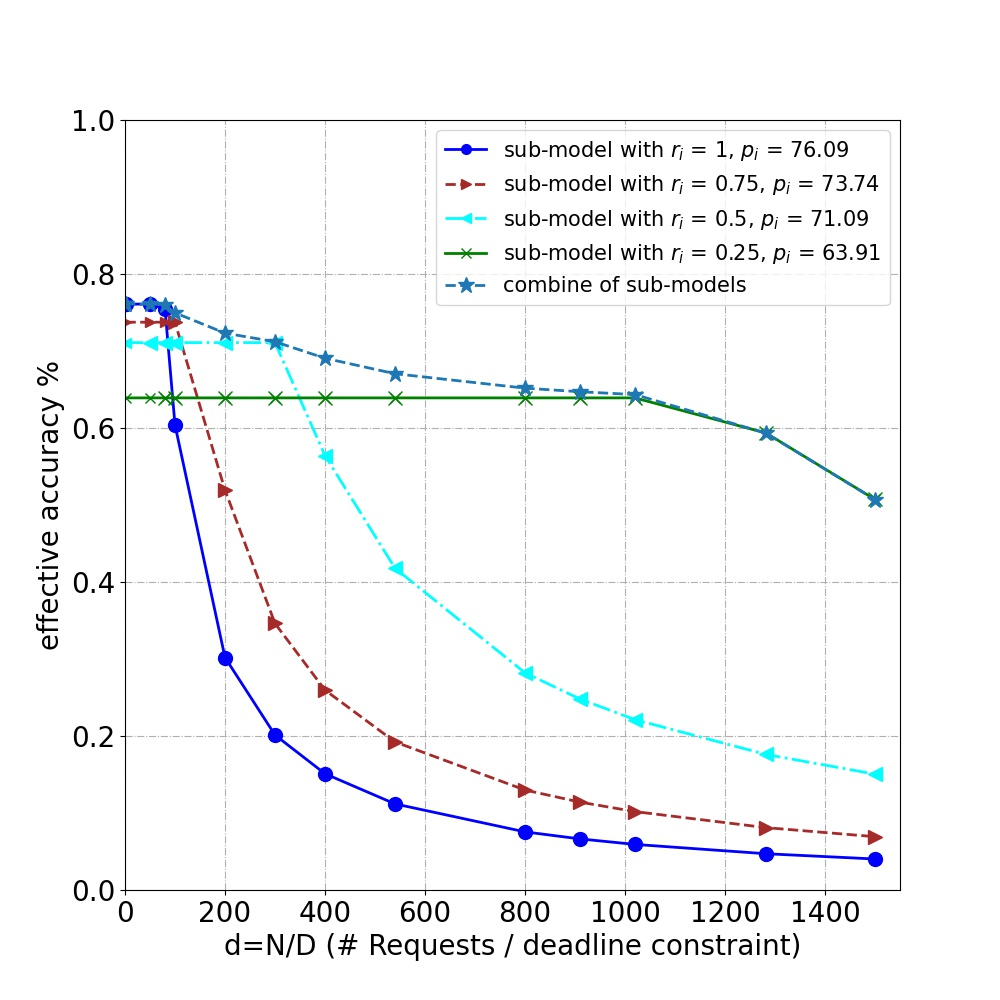
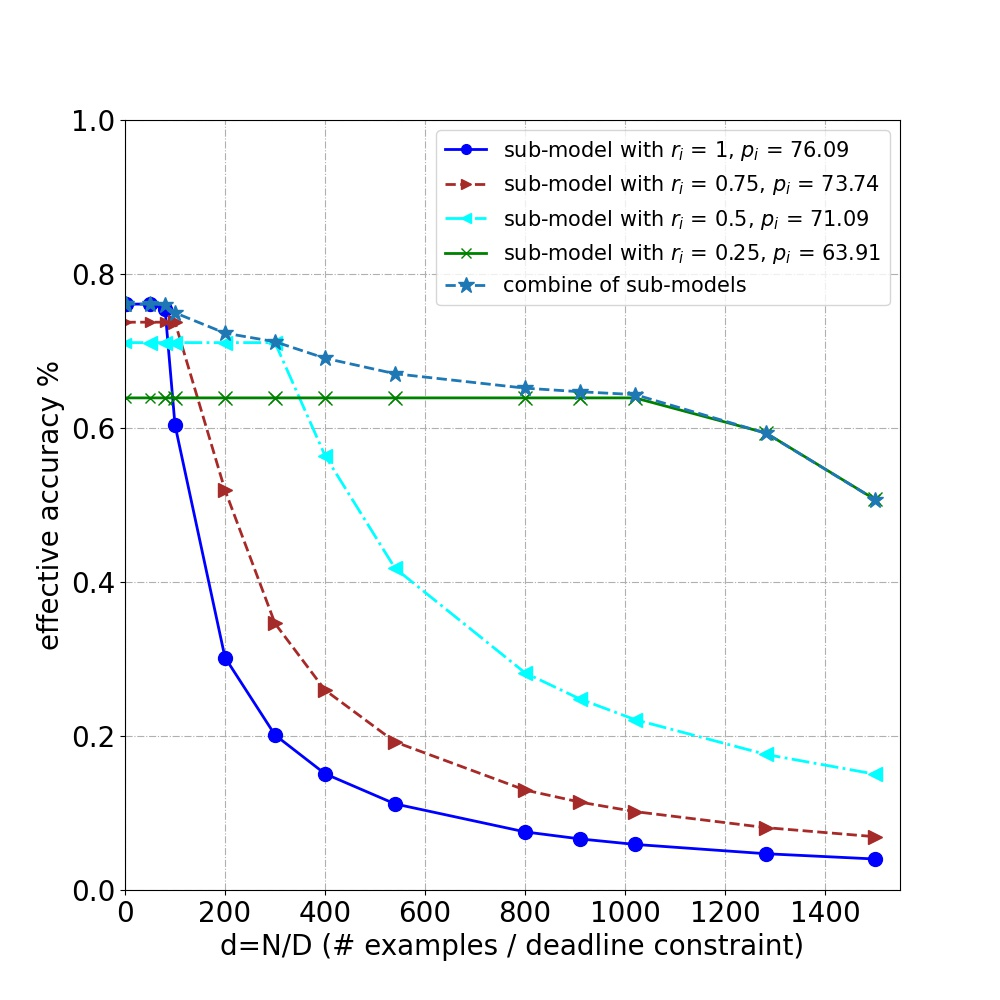
Add experiments

Changed region(s): [[0.217, 0.93, 0.806, 0.961]]

diff --git a/experiments/ideal_effitive_accuracy_plot.py b/experiments/ideal_effitive_accuracy_plot.py
@@ -40,8 +40,8 @@ y4 = interval01 + \
 
 plt.xlim((0, 1.2))
 plt.ylim((0, 1))
-plt.xlabel('qs=(number of query data) / (deadline constraint)')
-plt.ylabel('effective accuracy')
+plt.xlabel('qs=(number of examples) / (deadline constraint)')
+plt.ylabel('effective accuracy %')
 
 
 plt.plot(x, y1, label='sub-model with accuracy 0.95')
@@ -68,7 +68,7 @@ xc1, yc1 = 1, 0.75
 plt.scatter(xc1, yc1, s=80, facecolors='none', edgecolors='r')
 
 plt.legend()
-plt.savefig('./test2.jpg')
+plt.savefig('./ideal_effitive_accuracy.jpg')
 plt.show()
 
 # CUDA_VISIBLE_DEVICES=0,1,2 python train.py --exp_name resnet_50 --net_type resnet --group 8 --depth 50 --sr_list 1.0 0.75 0.5 0.25 --sr_scheduler_type random_min_max --sr_rand_num 1 --epoch 100 --batch_size 256 --lr 0.1  --dataset cifar10 --data_dir $HOME/data/ --log_freq 50

diff --git a/experiments/effitive_accuracy_plot.py b/experiments/effitive_accuracy_plot.py
@@ -88,7 +88,7 @@ ax.plot(x, ySch, "--", marker='*', ms=12, label="combine of sub-models", linewid
 plt.legend(fontsize=15)
 plt.xticks(fontsize=20)
 plt.yticks(fontsize=20)
-ax.set_xlabel('d=N/D (# Requests / deadline constraint)', fontsize=20)
+ax.set_xlabel('d=N/D (# examples / deadline constraint)', fontsize=20)
 ax.set_ylabel('effective accuracy %', fontsize=20)
 plt.grid(linestyle='-.')
 plt.savefig('./effective accuracy.jpg')

diff --git a/experiments/throughput_plot.py b/experiments/throughput_plot.py
@@ -83,7 +83,7 @@ for k in range(len(pots)):
 plt.legend(fontsize=15)
 plt.xticks(fontsize=20)
 plt.yticks(fontsize=20)
-ax.set_xlabel('Workload(#Requests/Second)', fontsize=20)
+ax.set_xlabel('Workload(#examples/second)', fontsize=20)
 ax.set_ylabel('Throughput(data/second)', fontsize=20)
 plt.grid(linestyle='-.')
 plt.savefig('./throughput.jpg')

diff --git a/experiments/Speed.py b/experiments/Speed.py
@@ -59,7 +59,7 @@ for k in range(len(pots)):
 plt.legend(fontsize=15)
 plt.xticks(fontsize=20)
 plt.yticks(fontsize=20)
-ax.set_xlabel('Workload(#Requests/Second)', fontsize=20)
+ax.set_xlabel('Workload(#examples/second)', fontsize=20)
 ax.set_ylabel('Effective speed', fontsize=20)
 plt.grid(linestyle='-.')
 plt.savefig('./Speed.jpg')
